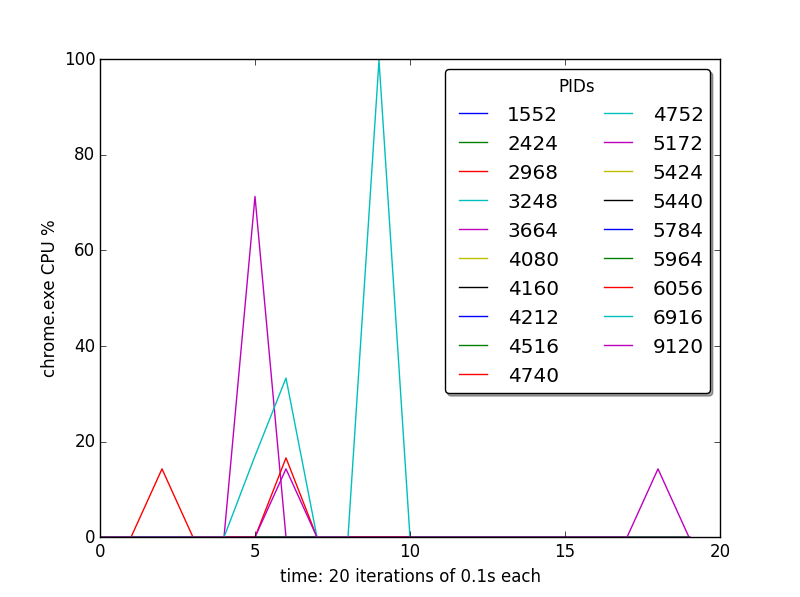
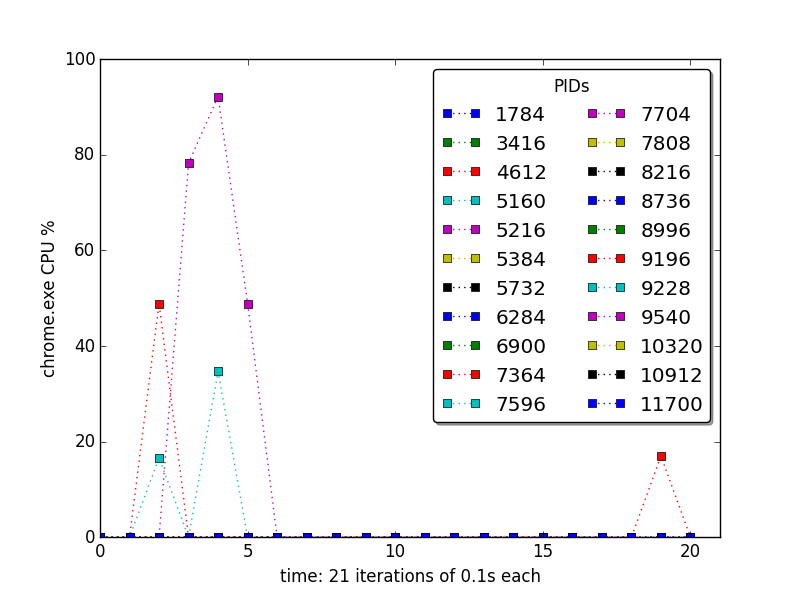
Updates the graphic plot with a dashed line for each running process and updates the accuracy on the cpu_percent call

diff --git a/processcpu2plot.py b/processcpu2plot.py
@@ -113,6 +113,7 @@ class ProcessCPU2Plot:
         for iteration in range(self.iterations):
             for process_index in range(len(self.pids)):
                 try:
+                    self.pids[process_index].cpu_percent(interval=0.1)
                     values_array[process_index][iteration] = \
                         self.pids[process_index].cpu_percent(self.interval)
                 except psutil.NoSuchProcess:
@@ -126,7 +127,7 @@ class ProcessCPU2Plot:
         """ Uses the matplotlib to create a line graphic plot
         """
         for pid_value in range(len(self.values)):
-            plt.plot(self.values[pid_value],
+            plt.plot(self.values[pid_value], ':s',
                      label=str(self.pids[pid_value].pid))
         plt.ylabel(sys.argv[1] + ' CPU %')
         plt.xlabel('time: ' + str(self.iterations) + ' iterations of ' +
@@ -145,9 +146,9 @@ if __name__ == "__main__":
         print(INCORRECT_NUMBER_OF_PARAMETERS_FOUND)
         exit(-1)
     # creates a new ProcessCPU2Plot object given the command line parameters
-    PROC = ProcessCPU2Plot(sys.argv[1], sys.argv[2], sys.argv[3])
-    PROC.validate_parameters()
+    PROCESSCPU = ProcessCPU2Plot(sys.argv[1], sys.argv[2], sys.argv[3])
+    PROCESSCPU.validate_parameters()
     # obtains the process PID(s), its CPU % values and plots them
-    PROC.pids = PROC.process_pid()
-    PROC.values = PROC.process_cpu_values()
-    PROC.plot()
+    PROCESSCPU.pids = PROCESSCPU.process_pid()
+    PROCESSCPU.values = PROCESSCPU.process_cpu_values()
+    PROCESSCPU.plot()
